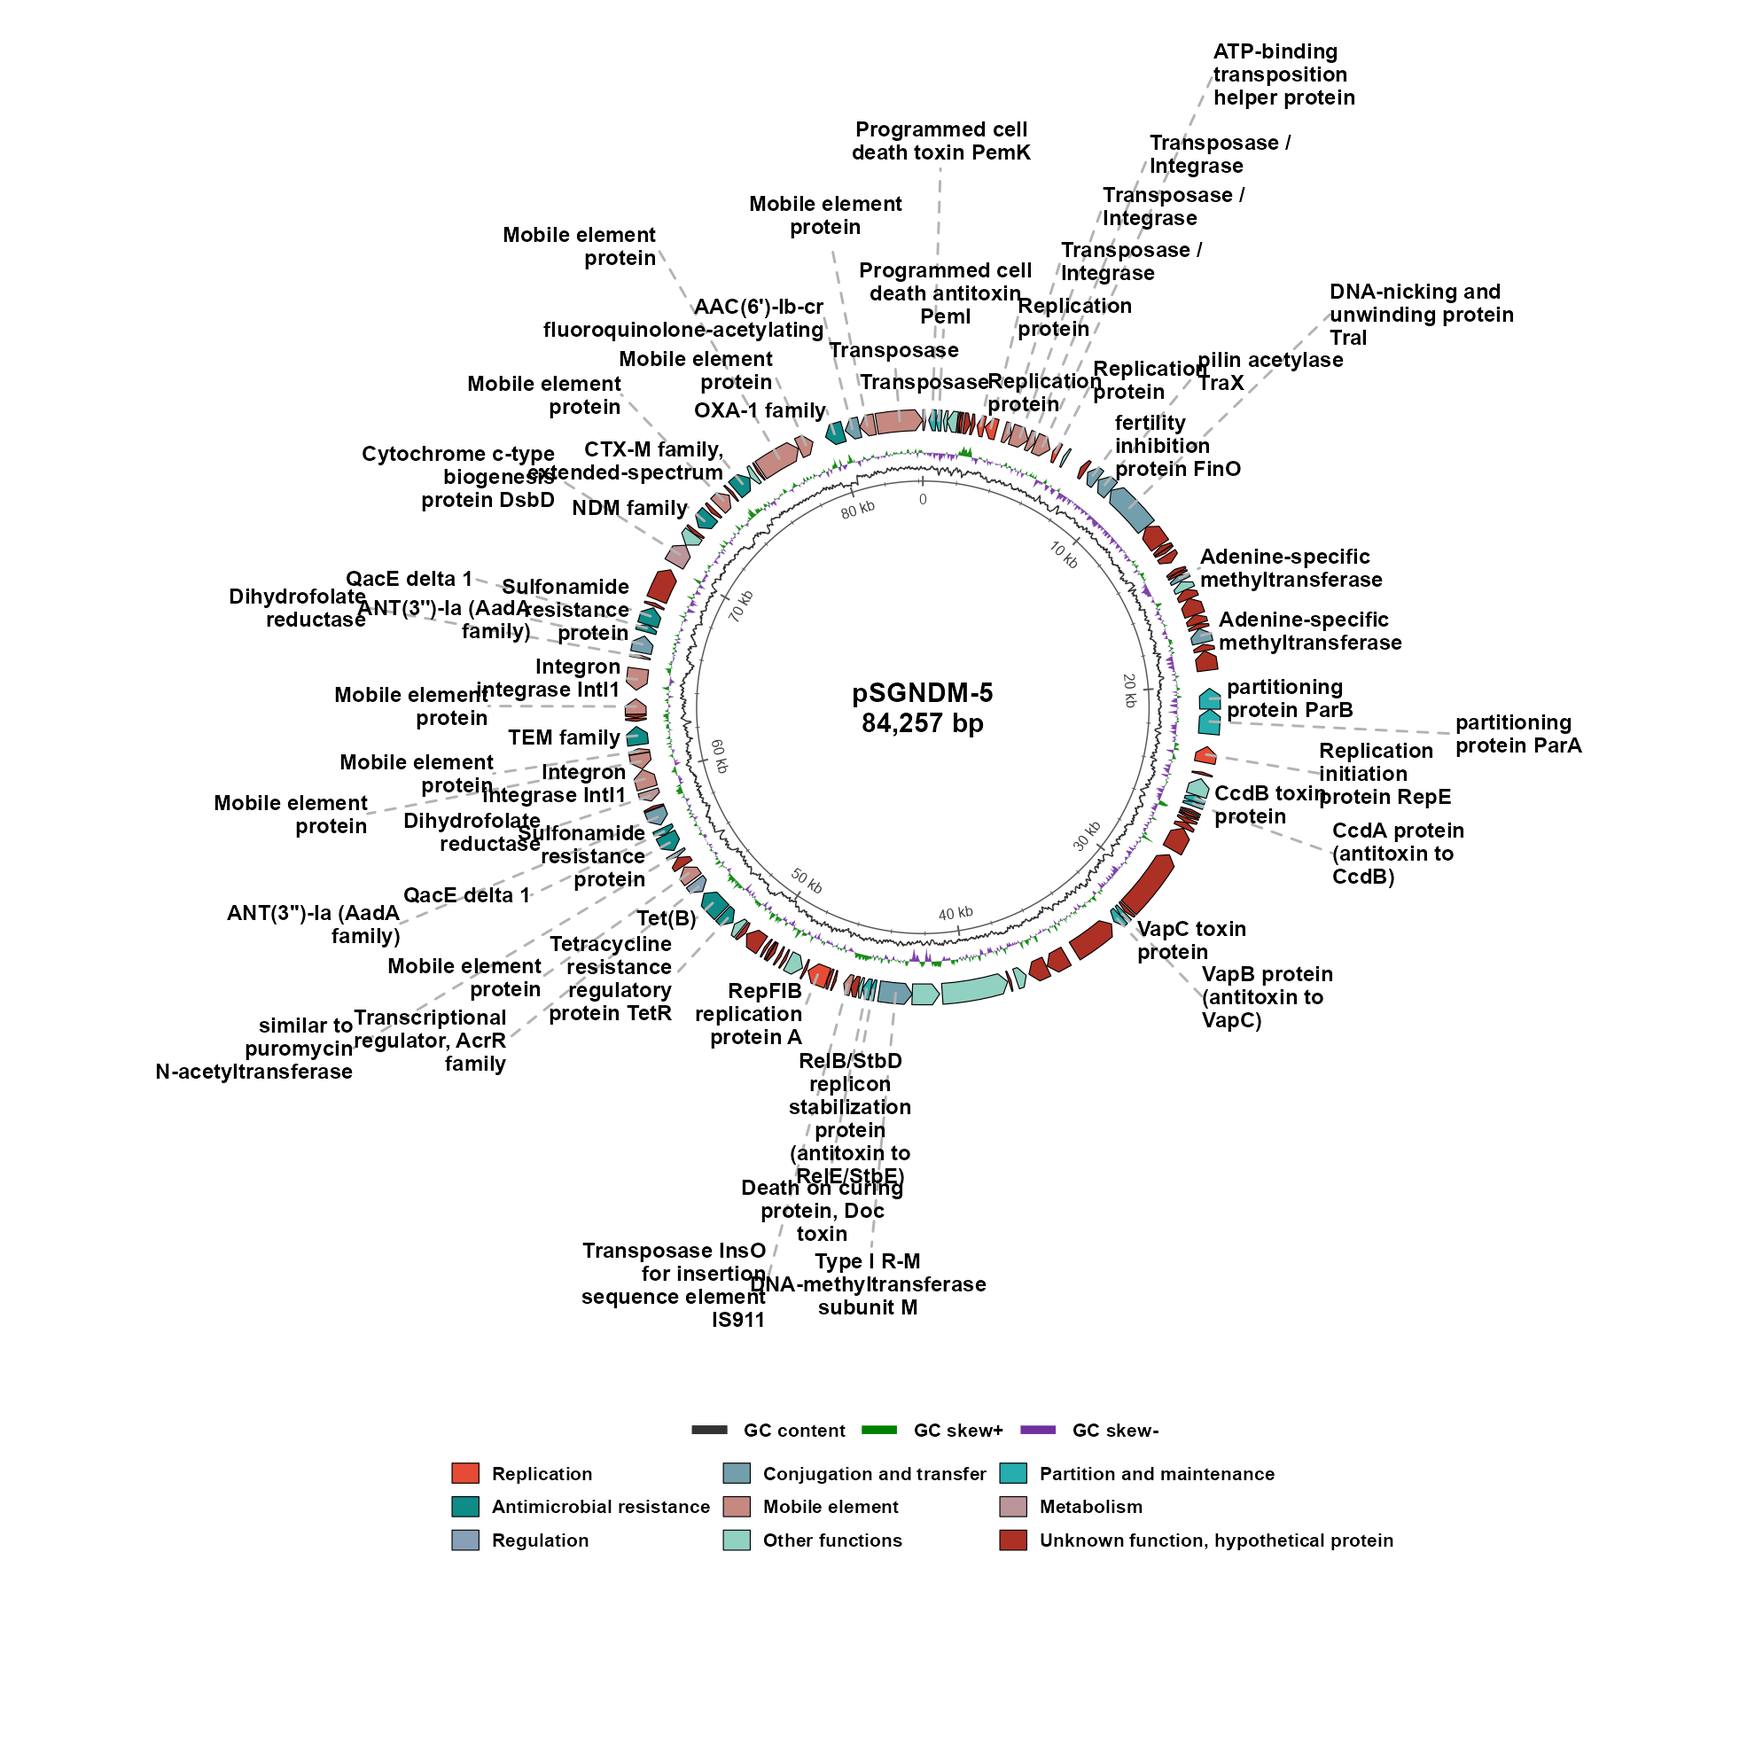
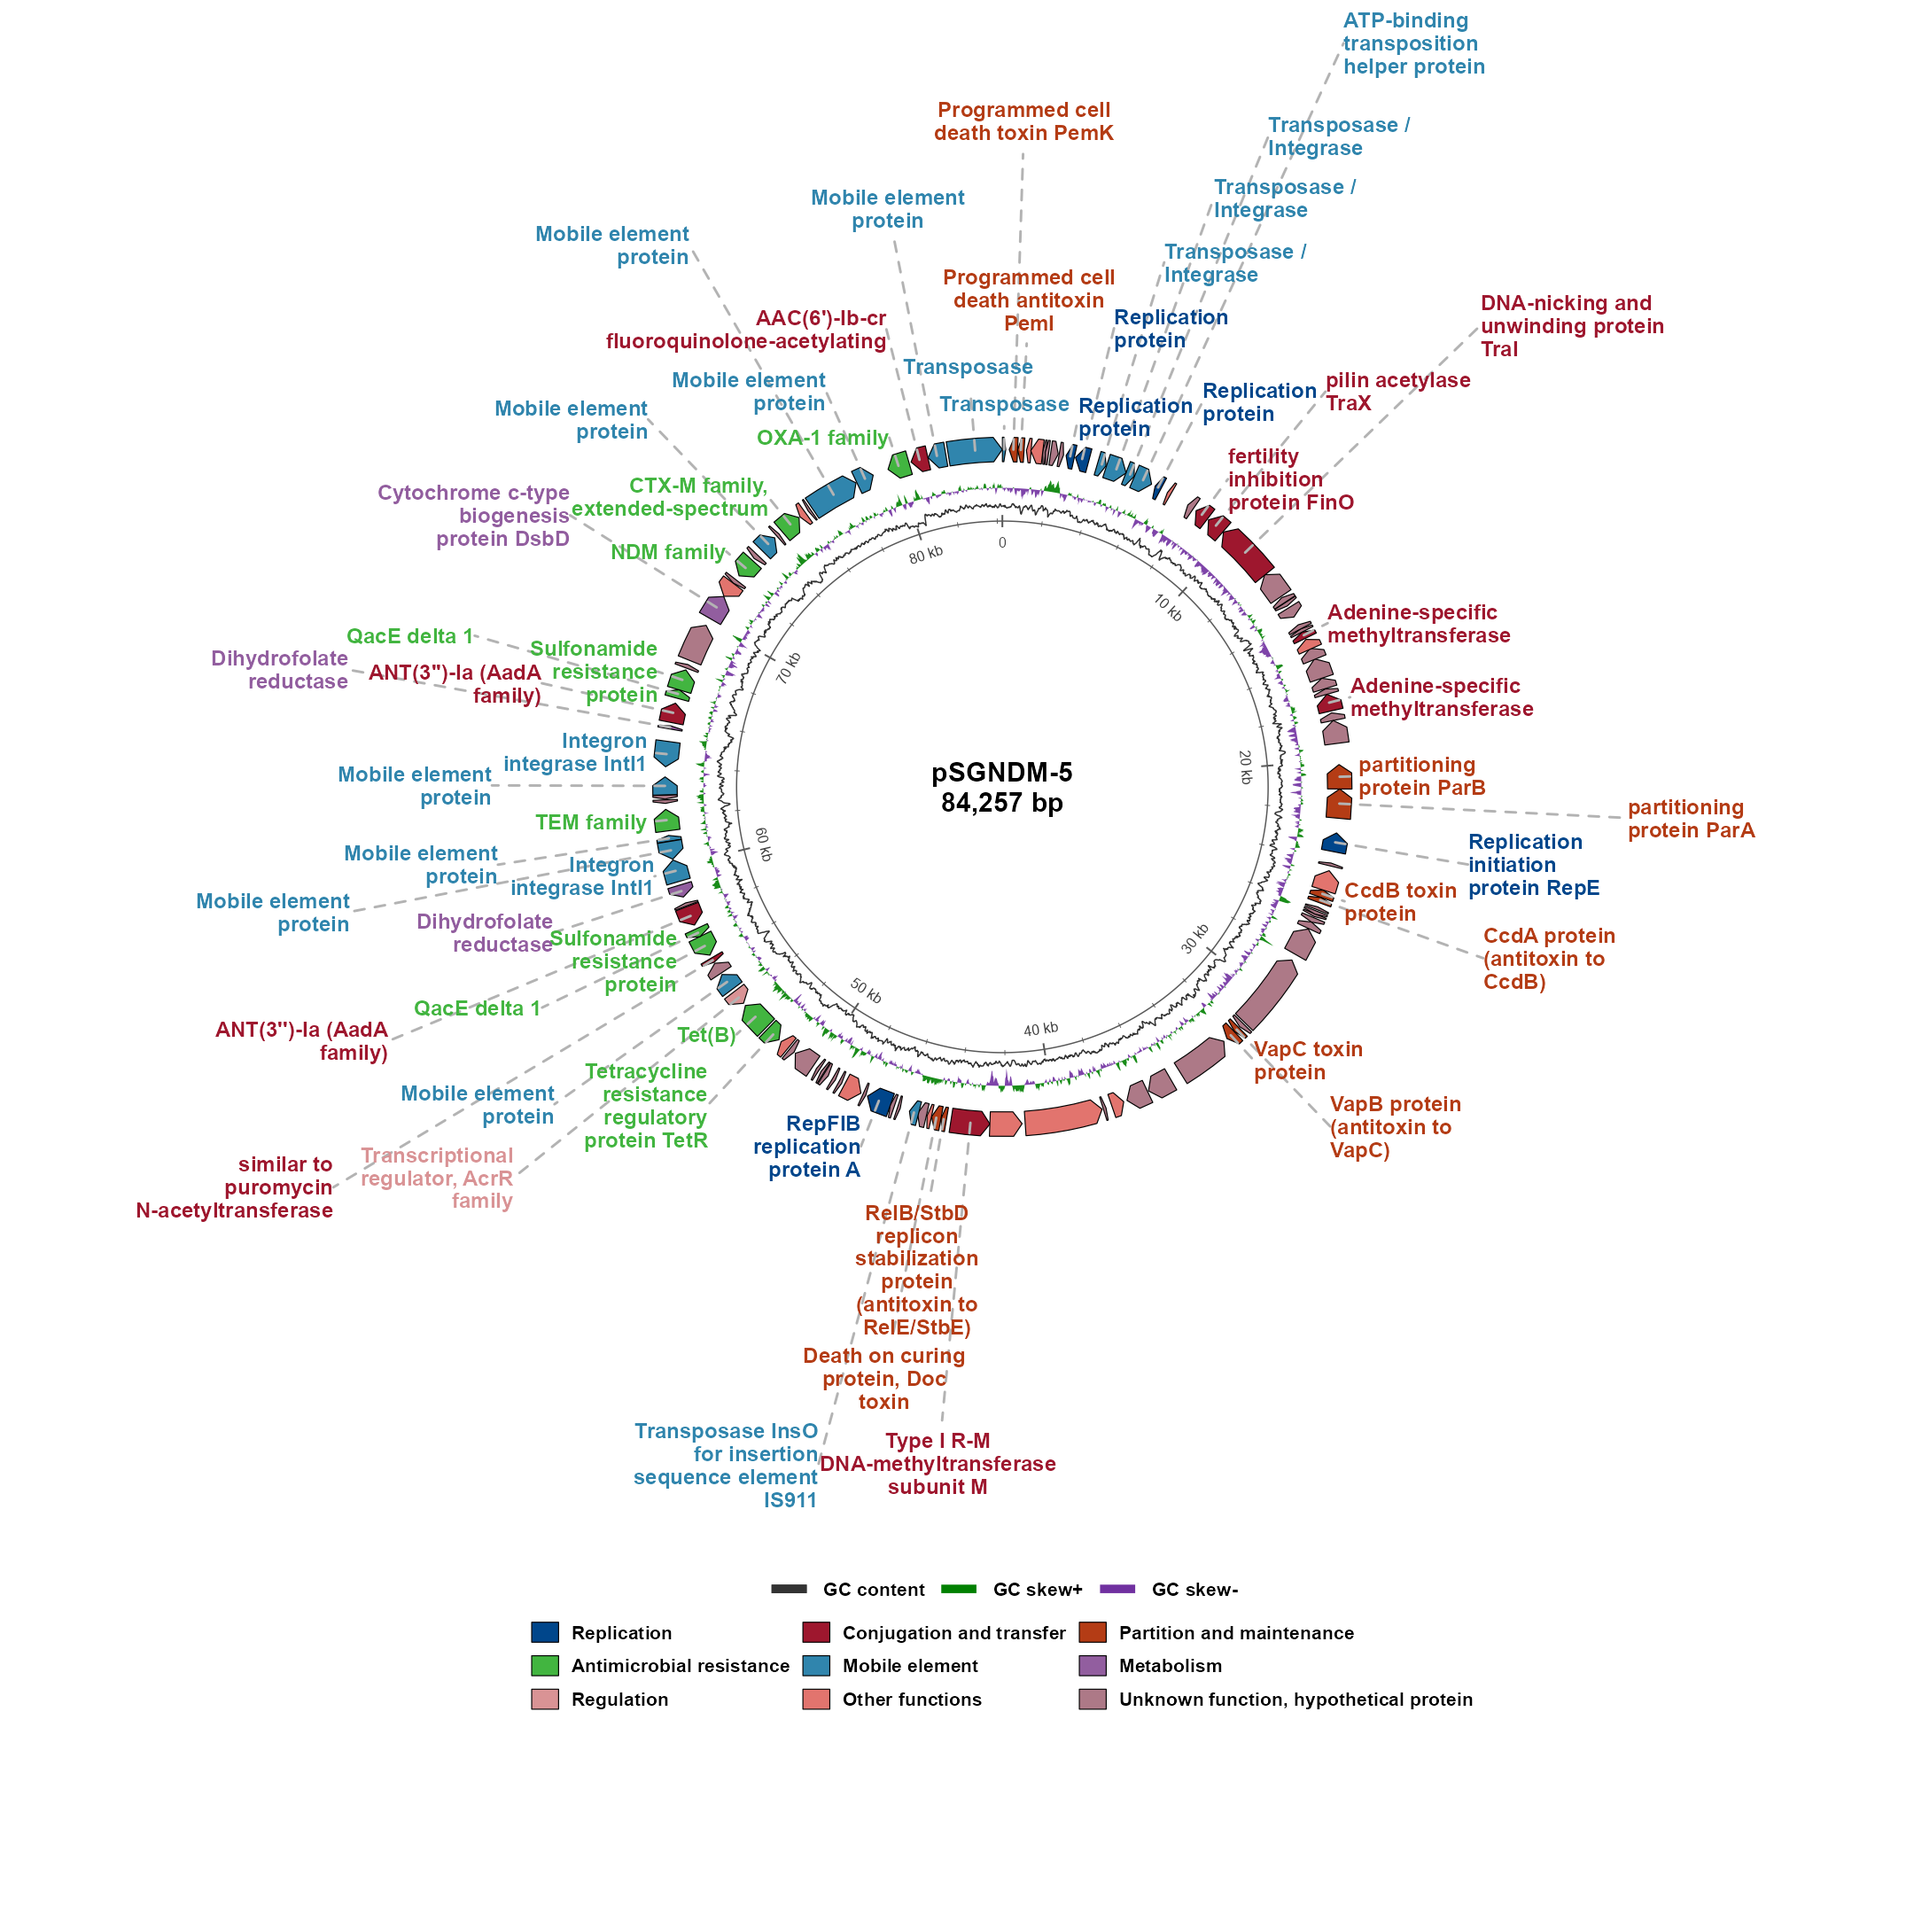
Polish README demos and category labels

Changed region(s): [[0.0924, 0.0, 0.9242, 0.8934], [0.4929, 0.3697, 0.5545, 0.4313]]

diff --git a/README.md b/README.md
@@ -44,16 +44,22 @@ gbk_file <- system.file("extdata", "pSGNDM_5.gbk", package = "ggplasmidZY")
 annotation <- read_plasmid_annotation(gbk = gbk_file) # annotation + ORIGIN sequence
 ```
 
+To plot your own plasmid or phage, read its GenBank file in the same way:
+
+```r
+annotation <- read_gbk("path/to/your_genome.gbk")
+```
+
 ### Circular map
 
-The figure immediately below is generated by the exact code shown here.
+Use the packaged system example to plot a circular plasmid map:
 
 ```r
 p_circular <- ggplasmid(
-  annotation = annotation,                    # gene features
+  annotation = annotation,                    # gene features and ORIGIN sequence
   name = "pSGNDM-5",                          # plot title/name
   layout = "circular",                        # circular map
-  palette = "npg",                            # ggsci palette name
+  palette = "lancet",                         # ggsci palette; try "npg", "aaas", "jco", "igv"
   label_exclude_categories = "Other functions", # hide these labels only
   label_anchor_radius = 1.07,                  # start labels close to the gene ring
   label_line_length = 0.04,                    # small initial connector gap
@@ -62,7 +68,7 @@ p_circular <- ggplasmid(
   label_linewidth = 0.55,                      # thicker label connectors
   label_line_colour = "grey70",               # light-gray leader lines
   label_line_linetype = "dashed",             # dashed leader lines
-  label_text_colour = "black",                 # fixed label text colour
+  label_text_colour = "category",             # label text color by category
   legend_position = "bottom"                  # put legends below the map
 )
 
@@ -74,15 +80,15 @@ p_circular
 ### Linear map with default connector direction
 
 This is the recommended starting layout. It uses four genome lines and
-horizontal label text. Leaving `label_line_angle` out uses the default vertical
-connector direction.
+horizontal label text. The default vertical connector direction is used for
+this demo.
 
 ```r
 p_linear <- ggplasmid(
-  annotation = annotation,                    # gene features
+  annotation = annotation,                    # gene features and ORIGIN sequence
   name = "pSGNDM-5",                          # plot title/name
   layout = "linear",                          # linear map
-  palette = "npg",                            # ggsci palette name
+  palette = "npg",                            # ggsci palette; try "aaas", "lancet", "jco", "igv"
   plot_line_num = 4,                           # number of genome lines
   max_labels = 36,                             # maximum labels to draw
   linear_label_wrap_width = 18,                # approximate label width
@@ -93,10 +99,11 @@ p_linear <- ggplasmid(
   gc_skew_height = 0.28,                       # taller GC-skew track
   gc_content_height = 0.14,                    # taller GC-content track
   gc_content_linewidth = 0.8,                  # thicker GC-content line
-  gc_legend_columns = 1,                       # compact GC legend
-  label_text_colour = "black",                # fixed label text colour
+  label_text_colour = "category",             # label text color by category
   label_line_colour = "grey70",               # fixed leader-line colour
-  legend_position = "right"                   # put legends beside the map
+  legend_position = "bottom",                 # put legends below the map
+  legend_columns = 3,                           # compact feature legend row
+  gc_legend_columns = 3                         # compact GC legend row
 )
 
 p_linear
@@ -108,47 +115,15 @@ The quick-start examples above use the packaged GenBank sequence directly.
 The data used by an existing plot can be retrieved with `plasmid_data(p)`. Set
 `label_unknown = TRUE` to include unknown or hypothetical gene labels.
 
-### Plot a selected sequence region
-
-Use `region_start` and `region_end` for a 1-based inclusive window. Features
-are clipped and rebased, and the GenBank `ORIGIN` sequence is sliced before GC
-tracks are calculated. With annotation-table input, the supplied FASTA record
-is sliced to the same window:
-
-```r
-p_region <- ggplasmid(
-  gbk = gbk_file,
-  name = "pSGNDM-5",
-  layout = "linear",
-  region_start = 1300,
-  region_end = 16890,
-  palette = "npg",
-  plot_line_num = 2
-)
-
-p_region
-```
-
-Linear maps also support placing labels on both sides of each genome line with
-`linear_label_side = "both"`. See the [linear-map wiki page](https://github.com/yzhong005/ggplasmidZY/wiki/Linear-map)
-for the complete code and a rendered example.
+The map can also be restricted to a fixed sequence region with
+`region_start` and `region_end`; see the [linear-map wiki page](https://github.com/yzhong005/ggplasmidZY/wiki/Linear-map)
+for this and the two-sided linear-label example.
 
 ## Label control
 
 For detailed circular and linear label placement, manual adjustments, label
 wrapping, and omitted-label summaries, see the
 [Label control Wiki page](https://github.com/yzhong005/ggplasmidZY/wiki/Label-control).
-
-## Your Own GenBank Input
-
-```r
-ggplasmid(
-  gbk = "plasmid.gbk",             # ORIGIN is used for GC tracks
-  name = "pExample",
-  layout = "circular",
-  output = "pExample_circular.png"
-)
-```
 
 ## Annotation Table Input
 
@@ -190,10 +165,10 @@ ggplasmid(
 )
 ```
 
-`category` controls gene-arrow classification and the selected `palette`; it is
-not interpreted as a label colour column. `gene_highlight()` changes gene-arrow
-fill colours only. For label text and leader lines, use columns containing
-valid R colours:
+`category` controls gene-arrow classification and the selected `palette`.
+Using `label_text_colour = "category"` applies that palette to label text;
+`gene_highlight()` changes gene-arrow fill colours only. For custom label text
+and leader-line colors, use columns containing valid R colours:
 
 ```r
 ggplasmid(
